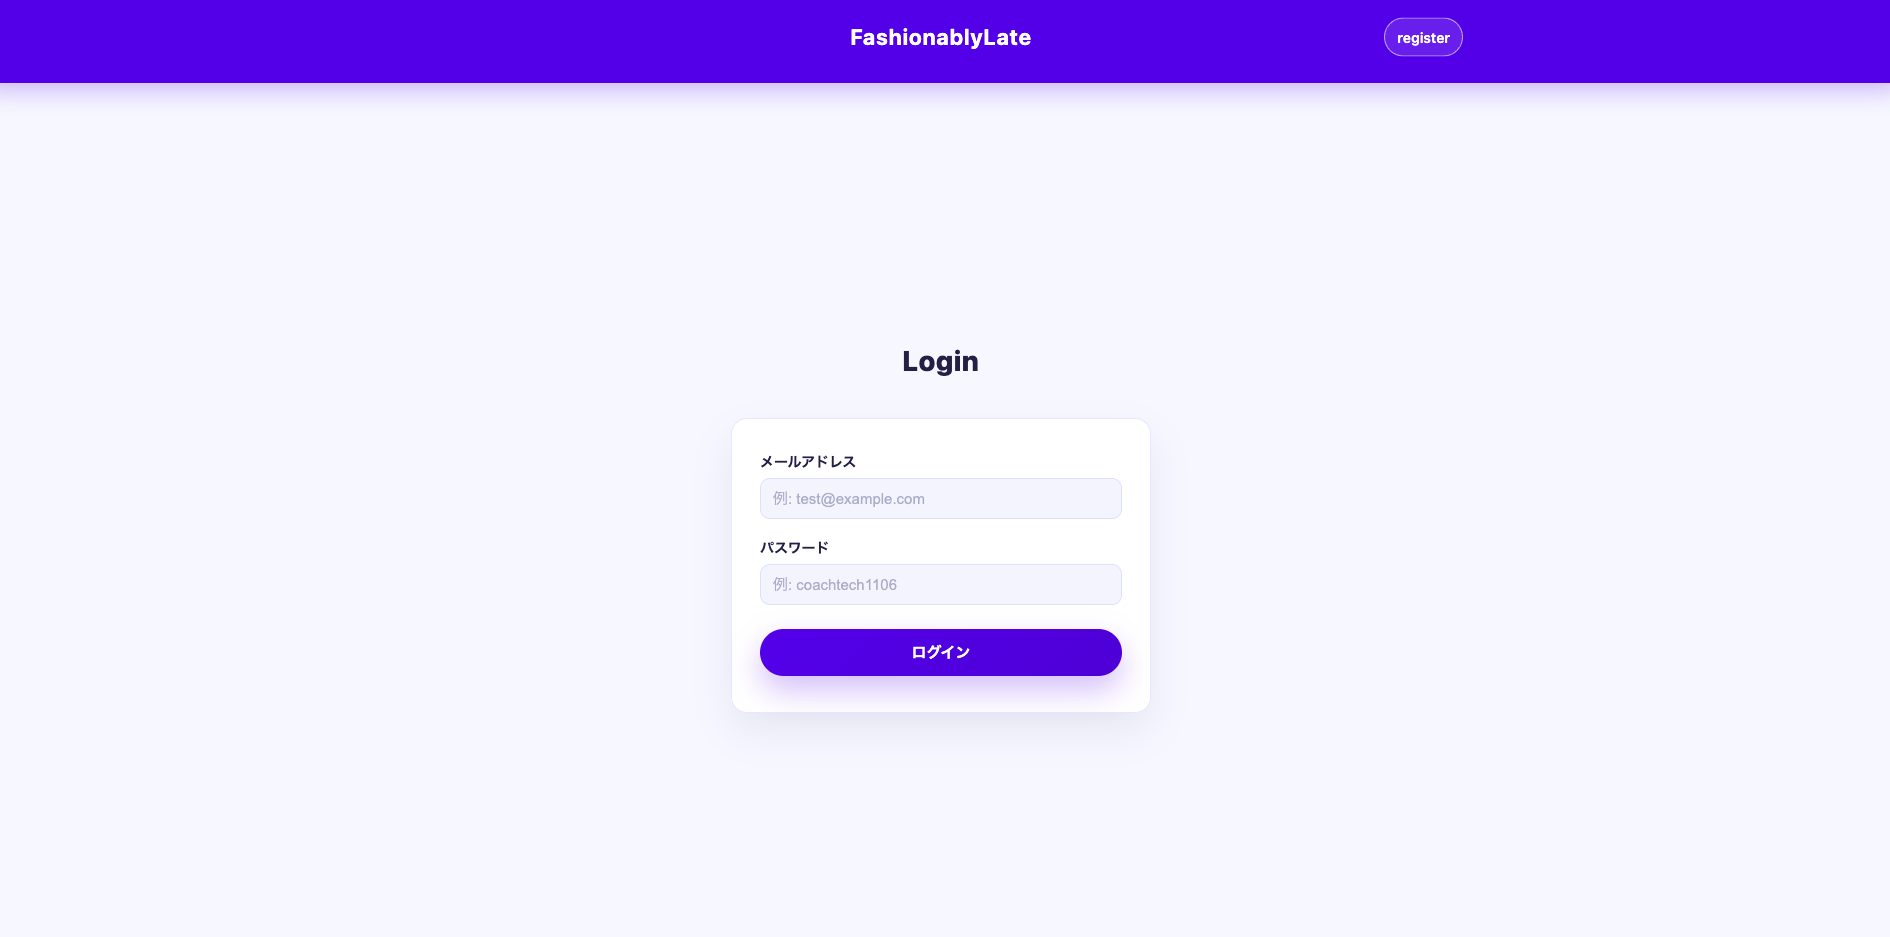
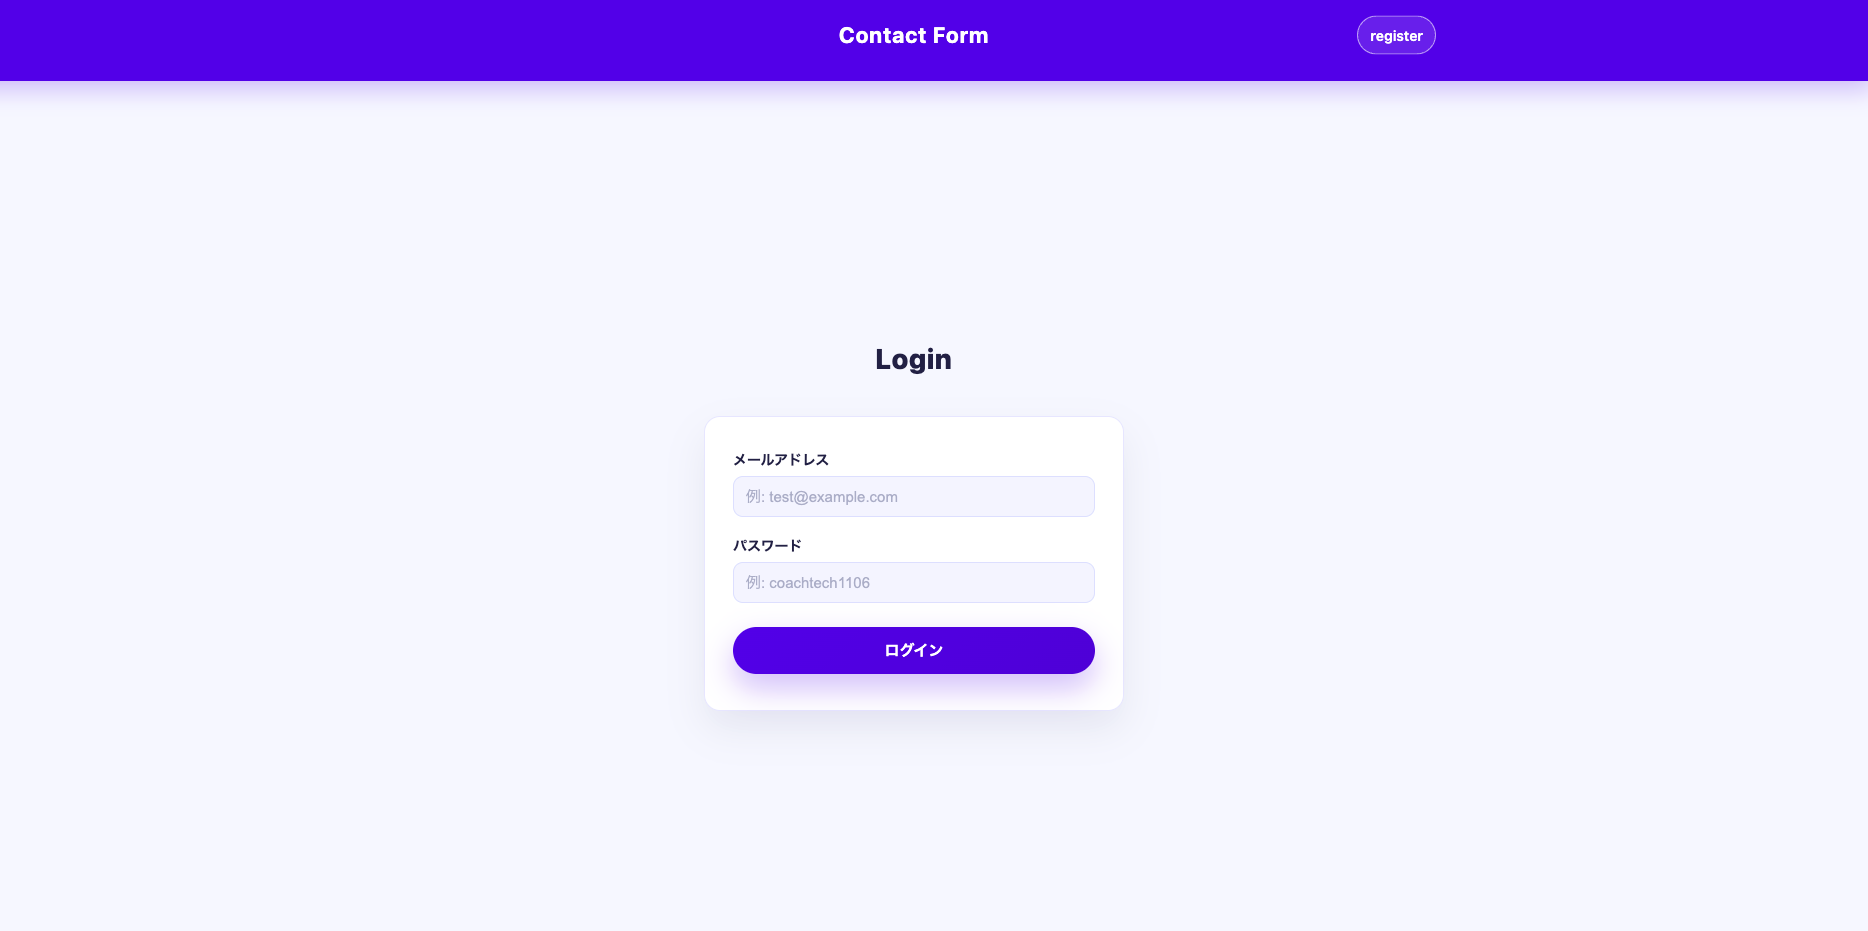
READMEの画像の変更

diff --git a/src/resources/views/layouts/app-register.blade.php b/src/resources/views/layouts/app-register.blade.php
@@ -1,5 +1,6 @@
 <!DOCTYPE html>
 <html lang="ja">
+
 <head>
     <meta charset="UTF-8">
     <meta http-equiv="X-UA-Compatible" content="IE=edge">
@@ -15,12 +16,13 @@
     @yield('css')
     @livewireStyles
 </head>
+
 <body>
     <header class="header">
         <div class="header__inner">
             <div class="header-utilities">
                 <h1 class="header__logo">
-                    FashionablyLate
+                    Contact Form
                 </h1>
                 <a class="header__login" href="/register">register</a>
             </div>
@@ -31,4 +33,5 @@
     </main>
     @livewireScripts
 </body>
+
 </html>

diff --git a/src/resources/views/layouts/app-logout.blade.php b/src/resources/views/layouts/app-logout.blade.php
@@ -22,7 +22,7 @@
         <div class="header__inner">
             <div class="header-utilities">
                 <h1 class="header__logo">
-                    FashionablyLate
+                    Contact Form
                 </h1>
                 <form method="POST" action="{{ route('logout') }}">
                     @csrf

diff --git a/src/resources/views/layouts/app-login.blade.php b/src/resources/views/layouts/app-login.blade.php
@@ -20,7 +20,7 @@
         <div class="header__inner">
             <div class="header-utilities">
                 <h1 class="header__logo">
-                    FashionablyLate
+                    Contact Form
                 </h1>
                 <a class="header__login" href="/login">login</a>
             </div>
